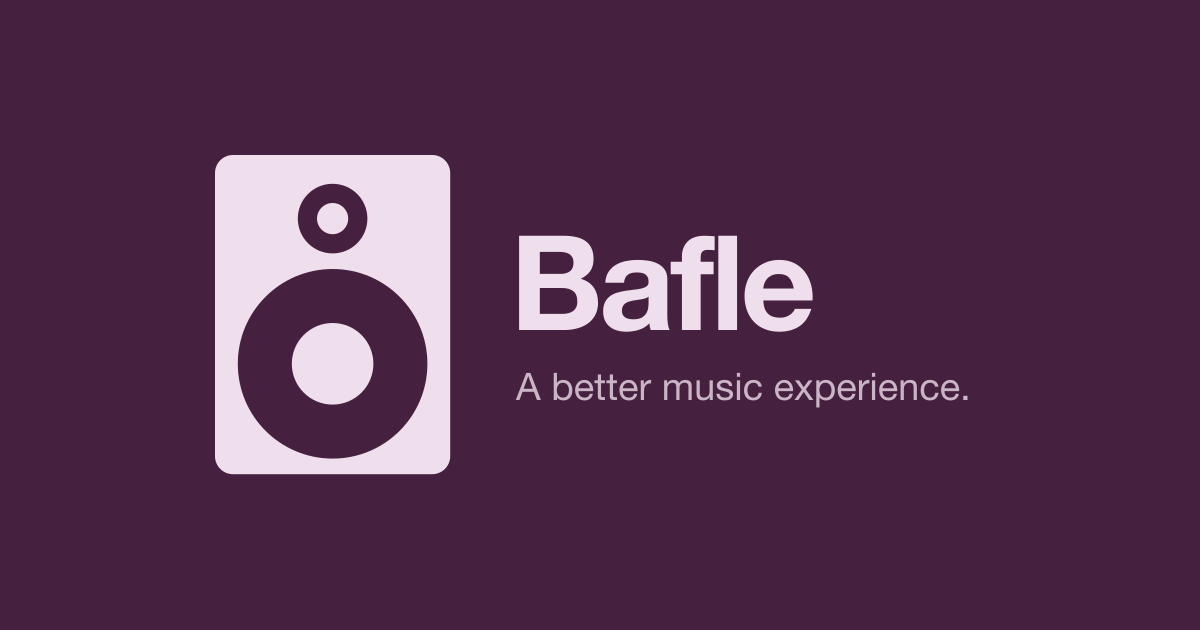
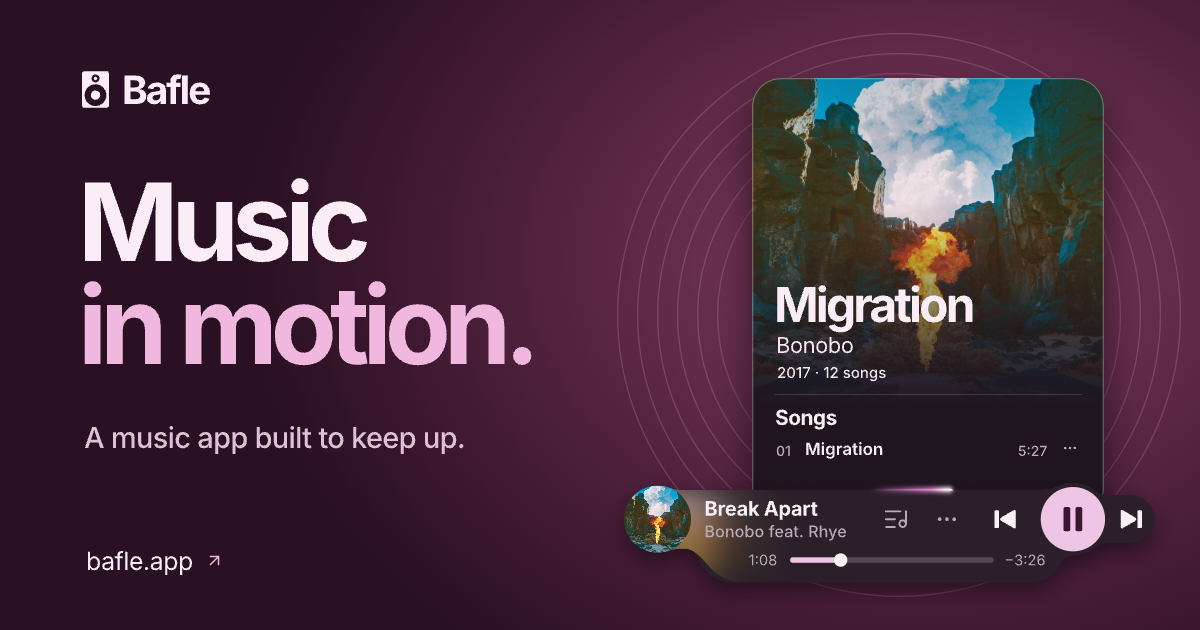
Show a shared link as the launch card: "Music in motion." beside the player
The new picture is exported from design/og-card.pen, and its address carries
a version so that a card a crawler already read is read again.

diff --git a/packages/web/index.html b/packages/web/index.html
@@ -5,18 +5,17 @@
     <meta name="viewport" content="width=device-width, initial-scale=1.0, viewport-fit=cover" />
     <!-- What a search result says under the app's name: the manifest's own words. -->
     <meta name="description" content="Discover albums, artists and playlists, and listen to music on Bafle." />
-    <!-- What a shared link shows, on X, Slack, WhatsApp and the rest: a large card with the mark
-         and the name (design/og-image.svg). A card is read by a crawler that runs no script, so
-         every page gives the same one, and the picture's address is whole, with its host. -->
+    <!-- Link previews use the launch card exported from design/og-card.pen. Crawlers read this
+         HTML directly, and the image version gives them a fresh URL when the artwork changes. -->
     <meta property="og:type" content="website" />
     <meta property="og:site_name" content="Bafle" />
     <meta property="og:url" content="https://bafle.app/" />
     <meta property="og:title" content="Bafle" />
     <meta property="og:description" content="A music app that works the way you'd expect: smooth, fast and beautiful." />
-    <meta property="og:image" content="https://bafle.app/og-image.png" />
+    <meta property="og:image" content="https://bafle.app/og-image.png?v=b019ba86" />
     <meta property="og:image:width" content="1200" />
     <meta property="og:image:height" content="630" />
-    <meta property="og:image:alt" content="The Bafle mark, a pale speaker on deep aubergine, beside the name Bafle." />
+    <meta property="og:image:alt" content="Bafle. Music in motion. A music app built to keep up. Bonobo’s Migration album and the Bafle player on an aubergine background." />
     <meta name="twitter:card" content="summary_large_image" />
     <meta name="color-scheme" content="light dark" />
     <!-- The colour a phone draws its own bar in, over the installed app: the ground of what is

diff --git a/CLAUDE.md b/CLAUDE.md
@@ -97,7 +97,7 @@ The player is its own part of the app (`packages/web/src/player/`, a Foldkit Sub
 5. An album's head draws back to a bar as its page is scrolled, by the scroll and not by a clock. The cover is never seen to shrink: for all of the way but the very last it keeps its size, goes up with the page and only grows dim, until it is clear; then, as the bar is about to arrive, the bar's own thumbnail grows bright in the bar, where it stands, with the bar's title: nothing of the cover moves to get there. A thumbnail of the head's, put where the bar would be and taken over by the bar's as it arrived, went on up past the bar's place for a frame or two on a phone, and was seen to hit the top of the screen and drop back. A cover that grew smaller while it could still be seen read as a picture being squeezed, however late it began and however dim it was. The words go up with the page and grow smaller towards the place the bar's title has, where they give way to it, so the title is seen to rise and settle in the bar. There is one cover to see wherever the page is scrolled. Every album's songs are at least as tall as what the screen has left under the bar and over the room at the page's foot (`--page-foot`, the navigation's and the island's, in `view/layout.ts`), however few they are, so that any album can be scrolled far enough for its head to finish: a page too short for that was left with its cover on its way for good. That is as far as a short album scrolls, and no further: its first song comes to rest right under the bar. With the foot's room left in, an album was scrolled that much past its head's end, and one of a single song went up under the bar and out of sight. The bar is as high as a bar of the system's (`--album-bar-inner` in `page/album.css`) and takes over only once the cover has landed.
 6. The mark of the track the player holds, on its row, holds its spinner and its bars both, one over the other, and the one not shown is small and clear: a start slow enough to turn the spinner becomes sound where it stands (`now-mark` in `styles.css`). The queue's rows are a list's rows, with the same surface that a press lights (`track-row`).
 7. A tile whose page is on its way says so with its own picture, and nothing is laid over it: the picture is a sleeve, which moves a little aside, and its record comes part of the way out from behind it and turns for as long as the page takes (`tile-record` in `styles.css`; the alternatives it was chosen from are in `design/motion/tile-loaders.html`). It is clear, not hidden, while it is behind its sleeve: a page kept behind the one on screen is hidden as a whole, and a piece of it that said it was visible would be seen through it. The record is no part of the piece that travels to the page's head: the picture goes, and the record stays with the shelf. Under reduced motion it is out and still.
-8. Bafle installs to a home screen. The manifest, the icons and the mark are in `packages/web/public` (their sources in `design/`). A link to it shared elsewhere (X, Slack, a message) is shown as one large card for every page, the mark beside the name on the deep aubergine (`og-image.png`, from `design/og-image.svg`; the `og:` tags in `index.html`), since what reads a card runs no script. A home screen is given one picture, `apple-touch-icon.png`, drawn at 512 pixels from `design/apple-touch-icon.svg`: larger than any home screen draws it, so it is only ever brought down to size. It is the mark with its two colours the other way round, the pale orchid speaker on the deep aubergine, because iOS from 26 keeps an icon's ground as it is and fades what stands on it towards that ground, down the icon: the dark speaker on the pale ground came out washed, and the pale one on the dark ground comes out shaded, as a thing lit from above (seen side by side in the Simulator). While an iPhone starts the installed app it shows a launch picture of the screen's exact size, light or dark (`public/splash`, drawn from the mark); while the app itself loads, in any browser, the same mark stands in the page (`#splash` in `index.html`) and gives way when the first page has something of its own to show: what the catalog said of it, with the pictures it opens with (navigation rule 1), or that it could not be asked. The app's first drawing is only placeholders, and the mark stands over them: the shell says `data-launching` for as long as the Model's `launch` is `Launching`, and the mark reads it. The bar a phone draws of its own over the installed app is the colour the document says (`theme-color` in `index.html`, one for each colour scheme), and that is always the ground of what is under it, so the two are one surface: the mark's ground while the mark stands, and from the launch on the ground of the app's pages, light or dark, which each `theme-color` carries and takes then (`PaintSystemBar`, given by `launchOnceShown`). Once the mark has given way it is not in the page at all (`display: none`), since Safari from 26 reads the colour of its own bars off what lies along the top of the page, a clear piece among that. Launched is for good, so a page that waits after that, a first search among them, waits in the app. The app needs the network to play anything, and nothing of the catalog or the sound is kept. What is kept is the app's own shell, by a service worker (`public/sw.js`, registered in builds only): the page it opens with and the files that page names. So the installed app starts with no network, on its mark, and says in its own words that it could not reach the catalog, with the way to try again.
+8. Bafle installs to a home screen. The manifest, the icons and the mark are in `packages/web/public` (their sources in `design/`). A link to it shared elsewhere (X, Slack, a message) is shown as one large card for every page, "Music in motion." beside an album's page and the player on the deep aubergine (`og-image.png`, exported from `design/og-card.pen`; the `og:` tags in `index.html`, whose `?v=` changes with the picture so that a card already read is read again), since what reads a card runs no script. A home screen is given one picture, `apple-touch-icon.png`, drawn at 512 pixels from `design/apple-touch-icon.svg`: larger than any home screen draws it, so it is only ever brought down to size. It is the mark with its two colours the other way round, the pale orchid speaker on the deep aubergine, because iOS from 26 keeps an icon's ground as it is and fades what stands on it towards that ground, down the icon: the dark speaker on the pale ground came out washed, and the pale one on the dark ground comes out shaded, as a thing lit from above (seen side by side in the Simulator). While an iPhone starts the installed app it shows a launch picture of the screen's exact size, light or dark (`public/splash`, drawn from the mark); while the app itself loads, in any browser, the same mark stands in the page (`#splash` in `index.html`) and gives way when the first page has something of its own to show: what the catalog said of it, with the pictures it opens with (navigation rule 1), or that it could not be asked. The app's first drawing is only placeholders, and the mark stands over them: the shell says `data-launching` for as long as the Model's `launch` is `Launching`, and the mark reads it. The bar a phone draws of its own over the installed app is the colour the document says (`theme-color` in `index.html`, one for each colour scheme), and that is always the ground of what is under it, so the two are one surface: the mark's ground while the mark stands, and from the launch on the ground of the app's pages, light or dark, which each `theme-color` carries and takes then (`PaintSystemBar`, given by `launchOnceShown`). Once the mark has given way it is not in the page at all (`display: none`), since Safari from 26 reads the colour of its own bars off what lies along the top of the page, a clear piece among that. Launched is for good, so a page that waits after that, a first search among them, waits in the app. The app needs the network to play anything, and nothing of the catalog or the sound is kept. What is kept is the app's own shell, by a service worker (`public/sw.js`, registered in builds only): the page it opens with and the files that page names. So the installed app starts with no network, on its mark, and says in its own words that it could not reach the catalog, with the way to try again.
 9. No page has a control of its own to go back, nor one that leads Home. The navigation is in reach from every page (navigation rule 11) and leads to any section, the island leads to the player, and the page behind is the browser's: its Back, or the swipe from the screen's edge, finds that page as it was left (navigation rule 9). A control at the page's corner said nothing those do not, and stood over the head of every page that is no section. So a page that says a failure offers "Try again" and nothing else, and one that says something is not available offers nothing. The one control that goes back through the history is the handle of the expanded player's sheet, since under the player there is no navigation.
 10. Top songs look one way wherever they are listed, on New, on an artist's page and on a genre's. Where the list is wide enough for two columns of rows (42rem) they are never taller than five rows, however many they are: they take the page's width (`TrackSpread` in `view/trackList.ts`) and are laid out in columns of five at most (`ROWS_IN_COLUMN`), as even as they can be, the first rows down the first column and the next down the one after, so the chart still reads from its top. The columns stand in a row that goes on sideways and snaps, a column at its leading edge, as a shelf does (2): two are seen, and when there are more the next one shows at the edge (`track-columns` in `styles.css`). So what stands under a long chart is in reach. Narrower than that, on a phone, the list is one column of all its rows, as an album's is: a row that went on sideways there showed one column at a time and hid the rest of the chart behind a swipe. Which of the two goes by the list's own width, not the screen's, since the queue opens beside the page and takes room from it. The placeholders stand in those same columns. The songs a search found past the first four are laid out the same way, under a heading of their own, "More songs", at any width. The songs of an album, a playlist and a station are one column of a width that reads well, as long as the list is: they are what the page is.
 11. That a page shows what it loaded earlier, because it could not be refreshed, is said over the page and not in it: a notice at the page's foot that takes no room (`staleBannerView`), with "Try again" and a control that puts it away (`staleNotice` in the Model). It stands at the foot because the top is where a page keeps what stays as it scrolls, Search's field and the bar an album's head draws back to, and a notice there lay over them; at the foot it stands clear of the navigation and the island, over the island while that is above the navigation's row and lower once it has come down into it. The page under it does not move when the notice comes or goes. Put away, it comes back the next time the catalog cannot be asked. A page that could not be reached is asked again by itself when the browser says the connection is back (`RegainedConnection`, from `connectionsRegained` in `subscription.ts`), so what it says of being offline goes with the catalog's answer and nothing has to be pressed; the focus is not moved for it, and a page the listener chose and is waiting for is still waited for.
